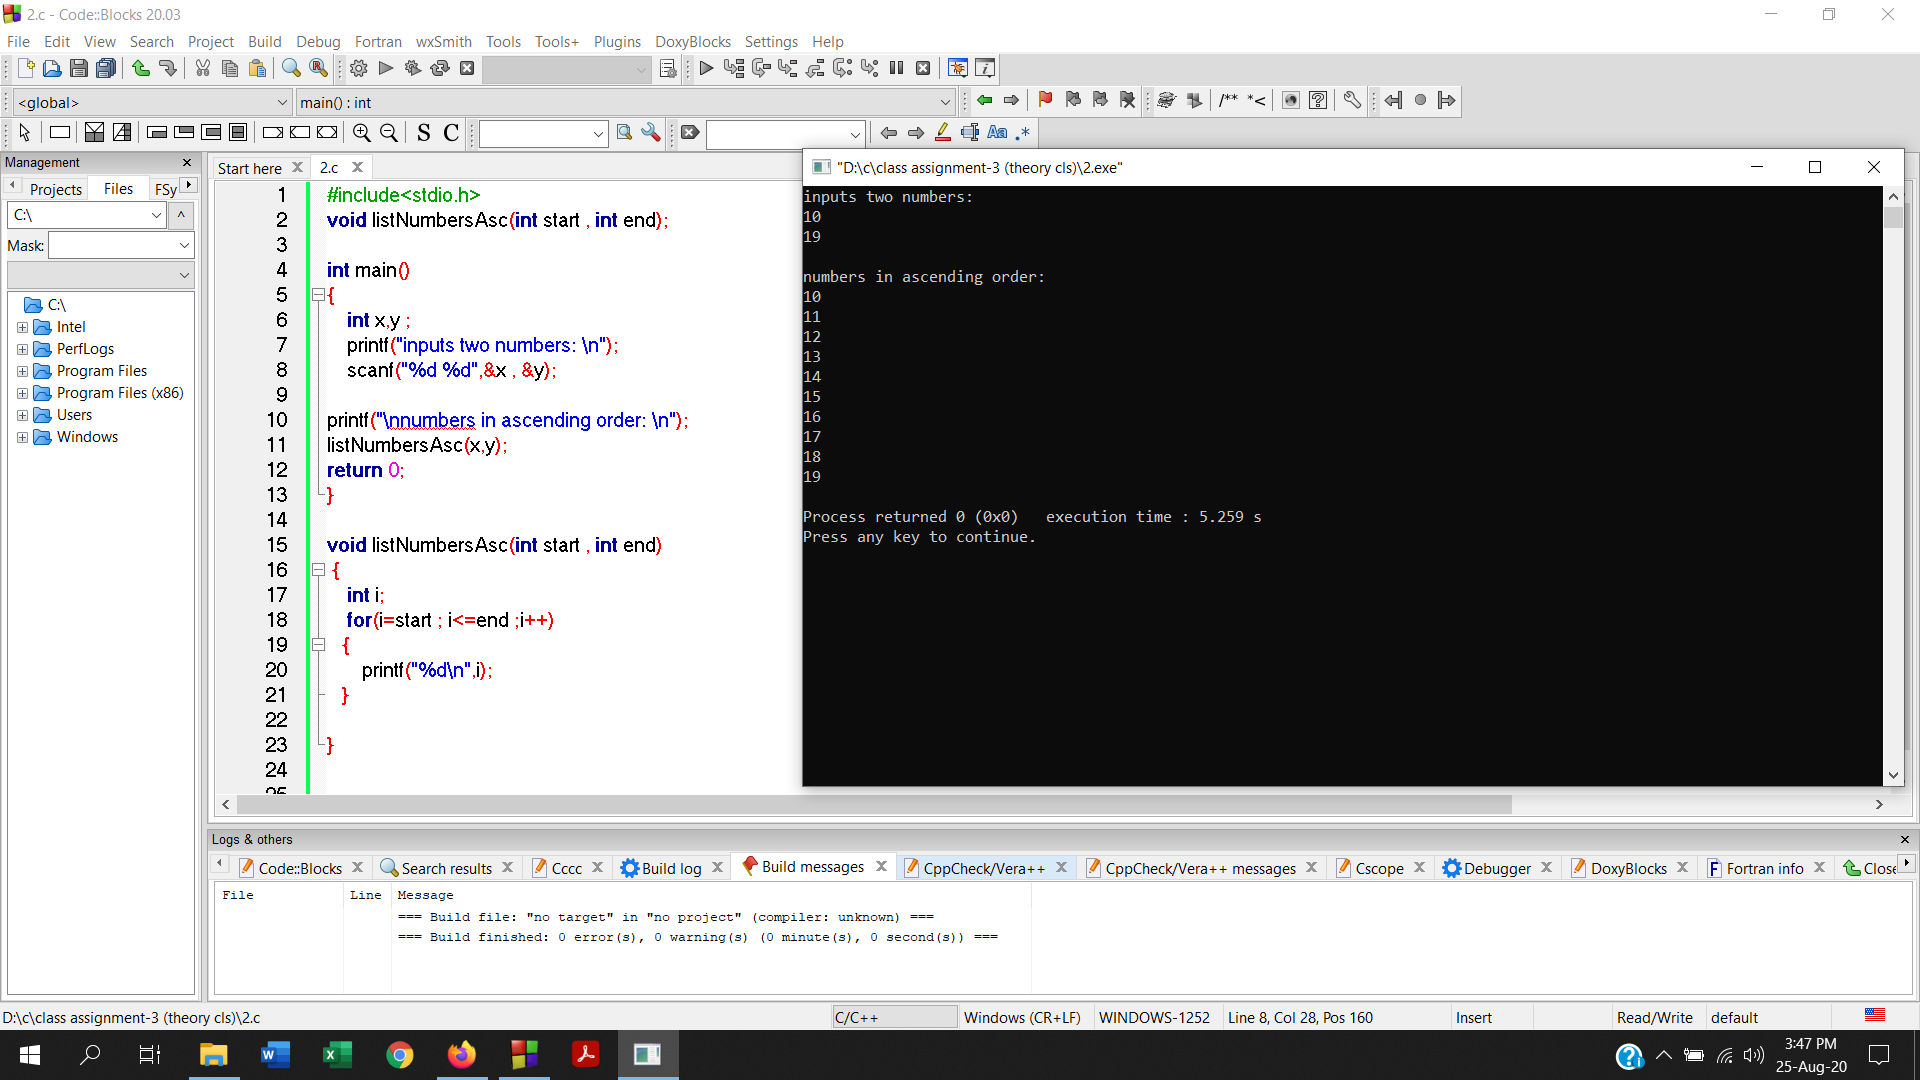
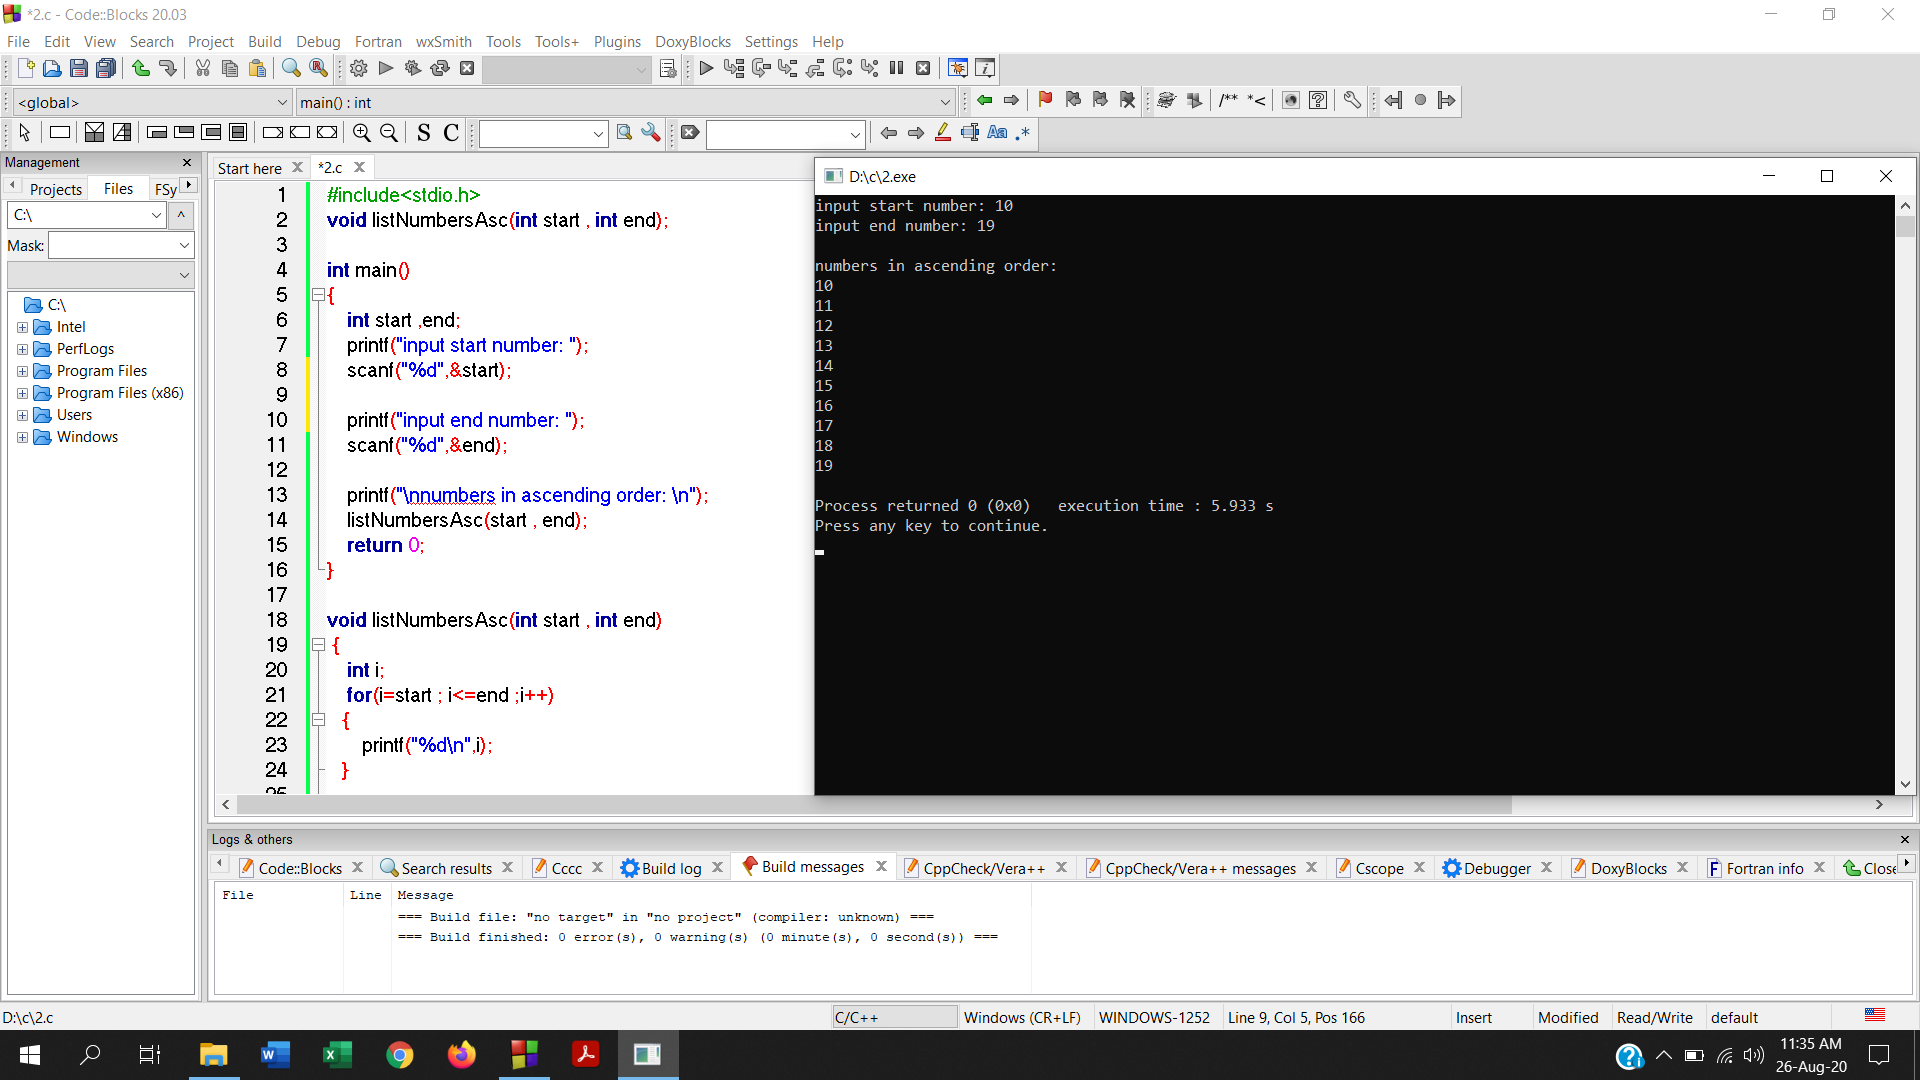
new files

diff --git a/class assignment-3 (theory cls)/3.c b/class assignment-3 (theory cls)/3.c
@@ -3,22 +3,23 @@ void listNumbersDesc(int start , int end);
 
 int main()
 {
-    int x,y ;
-    printf("inputs two numbers: \n");
-    scanf("%d %d",&x , &y);
+    int start ,end;
+    printf("input start number: ");
+    scanf("%d",&start);
 
-printf("\nnumbers in descending order: \n");
-listNumbersDesc(x,y);
-return 0;
+    printf("input end number: ");
+    scanf("%d",&end);
+
+    printf("\nnumbers in descending order: \n");
+    listNumbersDesc(start , end);
+    return 0;
 }
 
 void listNumbersDesc(int start , int end)
  {
     int i;
-    for(i=start ; i>=end ; i--)
+    for(i=end ; i>=start ;i--)
    {
        printf("%d\n",i);
    }
-
-}
-
+ }

diff --git a/class assignment-3 (theory cls)/2.c b/class assignment-3 (theory cls)/2.c
@@ -3,13 +3,16 @@ void listNumbersAsc(int start , int end);
 
 int main()
 {
-    int x,y ;
-    printf("inputs two numbers: \n");
-    scanf("%d %d",&x , &y);
+    int start ,end;
+    printf("input start number: ");
+    scanf("%d",&start);
 
-printf("\nnumbers in ascending order: \n");
-listNumbersAsc(x,y);
-return 0;
+    printf("input end number: ");
+    scanf("%d",&end);
+
+    printf("\nnumbers in ascending order: \n");
+    listNumbersAsc(start , end);
+    return 0;
 }
 
 void listNumbersAsc(int start , int end)
@@ -21,4 +24,3 @@ void listNumbersAsc(int start , int end)
    }
 
 }
-
